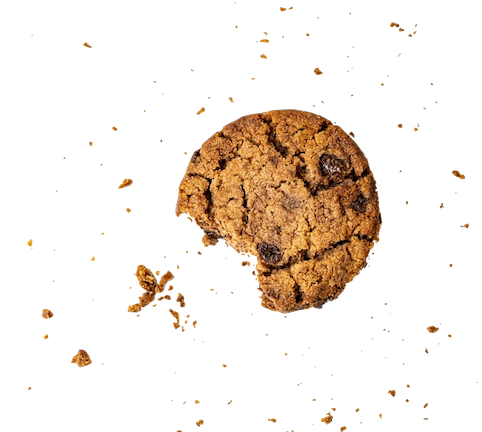
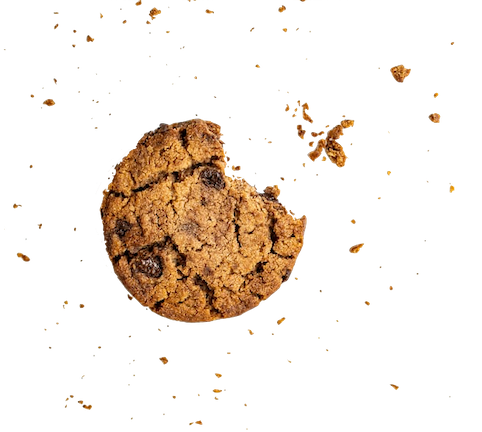
added background blobs, rotated cookie image

diff --git a/static/styles.css b/static/styles.css
@@ -3,7 +3,7 @@ body {
     width: 100%;
     height: 100%;
     margin: 0;
-    background-color: bisque;
+    background-color: #FFD2B3;
     color: #444444
 }
 
@@ -52,12 +52,13 @@ section {
     text-align: center;
 }
 
-.background-decorator {
+.background-image {
     z-index: -1;
     position: fixed;
     display: flex;
     justify-content: center;
-    width: 100%
+    width: 100%;
+    margin-top: 2%;
 }
 
 .signup-success {
@@ -66,4 +67,30 @@ section {
     padding: 10px 20px;
     border-radius: 10px;
     font-size: 20px;
+}
+
+.bgblob {
+    position: fixed;
+    z-index: -1;
+    box-sizing: content-box;
+    height: 0;
+    padding: 0;
+    background-size: cover;
+    background-repeat: no-repeat;
+}
+
+.blob-small {
+    bottom: 0;
+    left: 0;
+    width: 70%;
+    padding-bottom: 70%;
+    background-image: url("./images/small-blob.svg");
+}
+
+.blob-small2 {
+    top: 0;
+    left: 60%;
+    width: 70%;
+    padding-bottom: 70%;
+    background-image: url("./images/small-blob2.svg");
 }

diff --git a/templates/base.html b/templates/base.html
@@ -17,7 +17,10 @@
     {% block content %}
     {% endblock %}
 
-    <div class="background-decorator">
+    <div class="bgblob blob-small"></div>
+    <div class="bgblob blob-small2"></div>
+
+    <div class="background-image">
         <img src="/static/images/cookie.png" />
     </div>
 </body>
